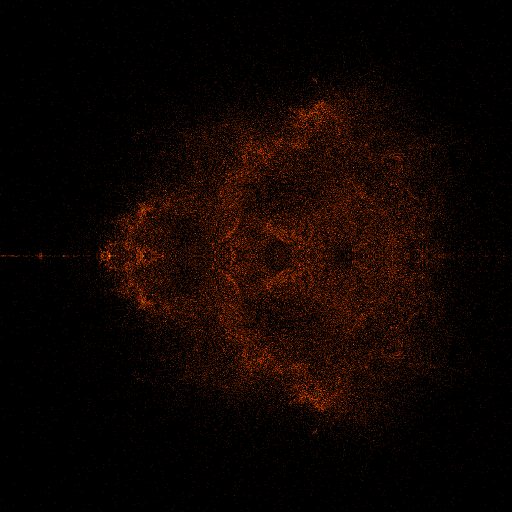
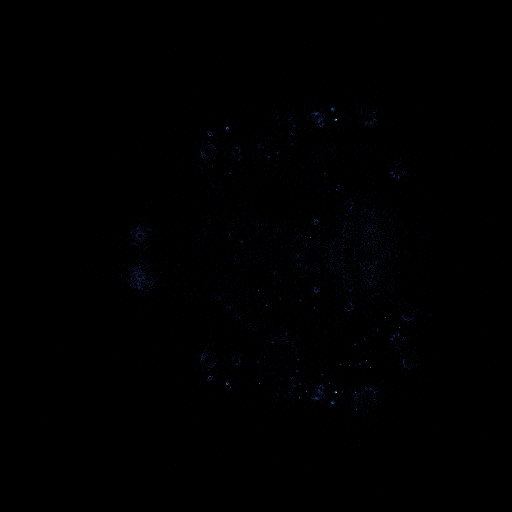
update

Changed region(s): [[0.125, 0.125, 1.0, 0.875], [0.0625, 0.4688, 0.0938, 0.5312]]

diff --git a/Fractals/MainGame.cpp b/Fractals/MainGame.cpp
@@ -38,7 +38,13 @@ int MainGame::checkStability(double cReal, double cIm, int N, double zReal = 0, 
 	while (i < N && zReal * zReal + zIm * zIm < 4.0) {
 			//Z^2 + C
 		double tmp = zReal * zReal - zIm * zIm + cReal;
-		zIm = 2.0 * zReal * zIm + cIm;
+		if (false){ //make the burining ship fractal if false
+			zIm = 2.0 * zReal * zIm + cIm;
+		}
+		else {
+			zIm = abs(2.0 * zReal * zIm) + cIm;
+		}
+		
 			//Z^3 + C
 		//double tmp = zReal * (zReal * zReal - 3 * zIm * zIm) + cReal;
 		//zIm = zIm * (3 * zReal * zReal - zIm * zIm) + cIm;
@@ -366,7 +372,7 @@ void MainGame::update() {
 	//parameters
 	int imageWidth = windowWidth;
 	int imageHeight = windowHeight;
-	int maxN = 50;
+	int maxN = 500;
 	if (buddhaSet) {
 		CreateBuddha(maxN);
 	}

diff --git a/Fractals/MainGame.h b/Fractals/MainGame.h
@@ -54,17 +54,7 @@ private:
 	//texture
 	SDL_Texture* fractalTex = nullptr;
 	//Settings
-	uint8_t color = 1; //1 = red, 2 = green, 3 = blue, 5 = all colors 
+	uint8_t color = 3; //1 = red, 2 = green, 3 = blue, 5 = all colors 
 	bool juliaSet = false; //switch to the julia set
 	bool buddhaSet = false; //switch to a sort buddha thing
 };
-
-
-/*What I need:
-	* renderer
-	* gridsize and bounds
-	* make a vector of points over the screen with gridsieze size
-	* full the array if number on how stable the points are
-	* render it some way, maybe using marching square or make my own methode
-	* rendering might be difficult
-*/
